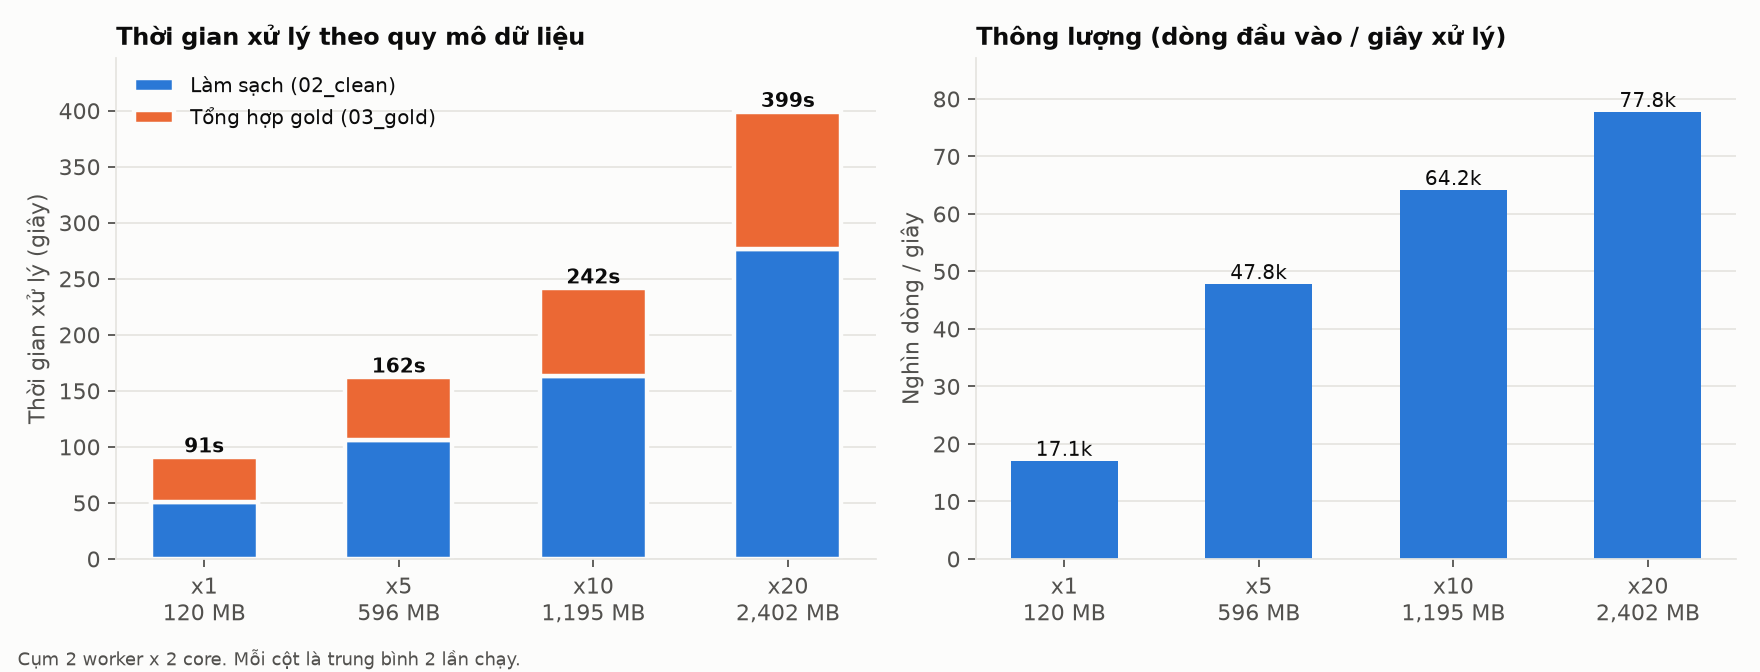
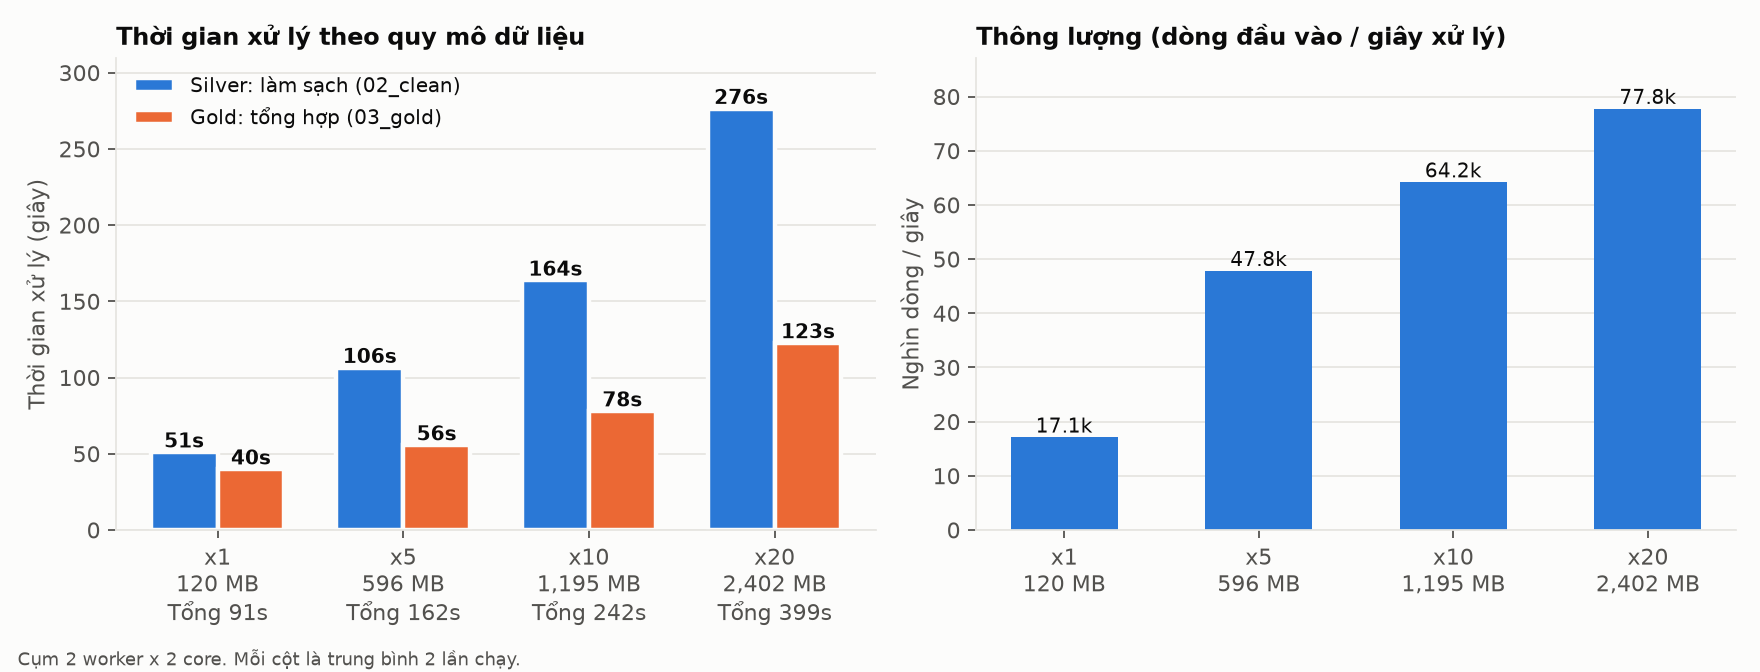
Tách thời gian tầng silver và gold trong kết quả thực nghiệm
- Bảng E1/E2 trong docs/05: cột Silver (02_clean), Gold (03_gold), Tổng, mức tăng và speedup từng tầng
- Thêm bảng thời gian kiểm tra/đối chiếu và thời gian toàn bộ lệnh
- Biểu đồ đổi từ cột chồng sang cột cạnh nhau, ghi số giây từng tầng
- Đổi tên cột trong results.md cho thống nhất

diff --git a/experiments/plot_results.py b/experiments/plot_results.py
@@ -22,7 +22,7 @@ SURFACE = "#fcfcfb"
 TEXT = "#0b0b0b"
 TEXT_2 = "#52514e"
 GRID = "#e6e5e1"
-CLEAN = "#2a78d6"   # series 1 - làm sạch
+SILVER = "#2a78d6"  # series 1 - tầng silver (làm sạch)
 GOLD = "#eb6834"    # series 2 - tổng hợp gold
 IDEAL = "#9a9893"   # đường tham chiếu (lý tưởng)
 
@@ -47,19 +47,26 @@ def load():
     return rows
 
 
-def stacked_time(ax, labels, clean, gold, title, legend_loc="upper left"):
-    """Cột chồng: thời gian làm sạch + gold, ghi tổng trên đầu cột."""
-    x = range(len(labels))
-    # Viền màu nền 2px tạo khe hở giữa 2 đoạn cột
-    ax.bar(x, clean, width=0.55, color=CLEAN, edgecolor=SURFACE, linewidth=2,
-           label="Làm sạch (02_clean)")
-    ax.bar(x, gold, width=0.55, bottom=clean, color=GOLD, edgecolor=SURFACE, linewidth=2,
-           label="Tổng hợp gold (03_gold)")
-    for i, (c, g) in enumerate(zip(clean, gold)):
-        ax.text(i, c + g, "{:.0f}s".format(c + g), ha="center", va="bottom",
+def grouped_time(ax, labels, silver, gold, title, legend_loc="upper left"):
+    """
+    Cột đặt cạnh nhau: thời gian tầng silver (02_clean) và tầng gold (03_gold) cho
+    từng cấu hình, mỗi cột ghi số giây riêng. Tổng được ghi dưới nhãn trục x.
+    """
+    w = 0.36
+    xs = list(range(len(labels)))
+    # Viền màu nền 2px tạo khe hở giữa 2 cột cạnh nhau
+    ax.bar([x - w / 2 for x in xs], silver, width=w, color=SILVER, edgecolor=SURFACE,
+           linewidth=2, label="Silver: làm sạch (02_clean)")
+    ax.bar([x + w / 2 for x in xs], gold, width=w, color=GOLD, edgecolor=SURFACE,
+           linewidth=2, label="Gold: tổng hợp (03_gold)")
+    for x, sv, g in zip(xs, silver, gold):
+        ax.text(x - w / 2, sv, "{:.0f}s".format(sv), ha="center", va="bottom",
                 color=TEXT, fontsize=9, fontweight="bold")
-    ax.set_xticks(list(x))
-    ax.set_xticklabels(labels)
+        ax.text(x + w / 2, g, "{:.0f}s".format(g), ha="center", va="bottom",
+                color=TEXT, fontsize=9, fontweight="bold")
+    ax.set_xticks(xs)
+    ax.set_xticklabels(["{}\nTổng {:.0f}s".format(lb, sv + g)
+                        for lb, sv, g in zip(labels, silver, gold)])
     ax.set_ylabel("Thời gian xử lý (giây)")
     ax.set_title(title)
     # Đặt chú thích ở góc trống (không đè lên cột cao nhất)
@@ -74,13 +81,13 @@ def plot_e1(rows):
         return None
     labels = ["x{}\n{:,.0f} MB".format(s["scale"], s["raw_mb"]) for s in e1]
     fig, (a1, a2) = plt.subplots(1, 2, figsize=(11, 4.2))
-    stacked_time(a1, labels, [s["clean_s"] for s in e1], [s["gold_build_s"] for s in e1],
+    grouped_time(a1, labels, [s["clean_s"] for s in e1], [s["gold_build_s"] for s in e1],
                  "Thời gian xử lý theo quy mô dữ liệu")
 
     # Thông lượng: số dòng xử lý mỗi giây (1 series -> không cần chú thích)
     x = range(len(e1))
     thr = [s["rows_per_s"] / 1000 for s in e1]
-    a2.bar(x, thr, width=0.55, color=CLEAN)
+    a2.bar(x, thr, width=0.55, color=SILVER)
     for i, v in enumerate(thr):
         a2.text(i, v, "{:.1f}k".format(v), ha="center", va="bottom", color=TEXT, fontsize=9)
     a2.set_xticks(list(x))
@@ -104,7 +111,7 @@ def plot_e2(rows):
     if len(e2) < 2:
         return None
     fig, (a1, a2) = plt.subplots(1, 2, figsize=(11, 4.2))
-    stacked_time(a1, [s["cores_config"].replace(" (", "\n(") for s in e2],
+    grouped_time(a1, [s["cores_config"].replace(" (", "\n(") for s in e2],
                  [s["clean_s"] for s in e2], [s["gold_build_s"] for s in e2],
                  "Thời gian xử lý theo số core (dữ liệu x{})".format(E2_FACTOR),
                  legend_loc="upper right")
@@ -113,7 +120,7 @@ def plot_e2(rows):
     base = e2[0]["processing_s"] * e2[0]["total_cores"]
     speedup = [base / s["processing_s"] for s in e2]
     a2.plot(cores, cores, color=IDEAL, linewidth=1.5, linestyle="--", label="Lý tưởng (tuyến tính)")
-    a2.plot(cores, speedup, color=CLEAN, linewidth=2, marker="o", markersize=8,
+    a2.plot(cores, speedup, color=SILVER, linewidth=2, marker="o", markersize=8,
             markeredgecolor=SURFACE, markeredgewidth=2, label="Thực tế")
     for c, s in zip(cores, speedup):
         a2.annotate("{:.2f}x".format(s), (c, s), textcoords="offset points", xytext=(0, -16),

diff --git a/experiments/run_experiments.py b/experiments/run_experiments.py
@@ -234,14 +234,14 @@ def write_report():
     L = ["# Kết quả thực nghiệm - pipeline Processing (02_clean + 03_gold)\n",
          "> Sinh tự động bởi `experiments/run_experiments.py` từ `results.csv` "
          "({} lần chạy). Giải thích: `docs/05-thuc-nghiem.md`.\n".format(len(rows)),
-         "*Thời gian xử lý* = làm sạch + tạo gold, **không** gồm khởi động Spark và các bước "
+         "*Tổng xử lý* = silver (02_clean) + gold (03_gold), **không** gồm khởi động Spark và các bước "
          "kiểm tra lại / đối chiếu. Mỗi cấu hình chạy nhiều lần, bảng ghi giá trị trung bình.\n"]
 
     if e1:
         base = e1[0]
         L.append("## E1 - Quy mô dữ liệu (4 core, 2 worker)\n")
-        L.append("| Quy mô | CSV vào (MB) | Số dòng vào | Làm sạch (s) | Gold (s) | "
-                 "Xử lý (s) | Min-max (s) | Dữ liệu tăng | Thời gian tăng | Dòng/giây | MB/giây | "
+        L.append("| Quy mô | CSV vào (MB) | Số dòng vào | Silver: 02_clean (s) | Gold: 03_gold (s) | "
+                 "Tổng xử lý (s) | Min-max (s) | Dữ liệu tăng | Thời gian tăng | Dòng/giây | MB/giây | "
                  "Broadcast join | Sort-merge join | Đối chiếu | Doanh thu hợp lệ |")
         L.append("|---|---:|---:|---:|---:|---:|---:|---:|---:|---:|---:|---:|---:|---|---:|")
         for s in e1:
@@ -256,7 +256,7 @@ def write_report():
     if e2:
         one = e2[0]
         L.append("\n## E2 - Số core / worker (dữ liệu x{})\n".format(E2_FACTOR))
-        L.append("| Cấu hình | Số lần chạy | Làm sạch (s) | Gold (s) | Xử lý (s) | Min-max (s) | "
+        L.append("| Cấu hình | Số lần chạy | Silver: 02_clean (s) | Gold: 03_gold (s) | Tổng xử lý (s) | Min-max (s) | "
                  "Speedup so với 1 core | Hiệu suất (speedup / số core) | Dòng/giây |")
         L.append("|---|---:|---:|---:|---:|---:|---:|---:|---:|")
         for s in e2:

diff --git a/docs/05-thuc-nghiem.md b/docs/05-thuc-nghiem.md
@@ -61,8 +61,15 @@ Giới hạn số core bằng tham số của `spark-submit`, không phải tắ
 | 2 core (1 worker) | `--total-executor-cores 2 --executor-cores 2` | 1 executor chiếm trọn 1 worker |
 | 4 core (2 worker) | `--total-executor-cores 4 --executor-cores 2` | Cụm đầy đủ |
 
-**Thời gian xử lý** = thời gian làm sạch (bước 4) + thời gian tạo gold (bước 5). Con số này
-**không** gồm khởi động Spark và các bước kiểm tra lại / đối chiếu số liệu.
+Mỗi lần chạy đo **riêng từng tầng**:
+
+| Đại lượng | Đo cái gì |
+|---|---|
+| **Silver** | Job `02_clean.py`: đọc CSV, làm sạch, ghi 8 bảng Parquet silver |
+| **Gold** | Job `03_gold.py`: đọc silver, join, tổng hợp, ghi 7 bảng gold |
+| **Tổng xử lý** | Silver + Gold |
+| **Kiểm tra** | Đọc lại silver để kiểm tra khoá chính, và chạy 11 kiểm tra đối chiếu của gold. **Không** tính vào tổng xử lý; ghi riêng ở mục 3.1. |
+| **Toàn bộ lệnh** | Thời gian từ lúc gõ `spark-submit` tới lúc kết thúc, gồm cả khởi động Spark, kiểm tra và ghi báo cáo (mục 3.1) |
 
 ### 2.4. Môi trường đo
 
@@ -75,14 +82,42 @@ Docker trên cùng máy này.
 
 ![Kết quả E1](../reports/experiments/fig_e1_scale.png)
 
-| Quy mô | CSV vào | Thời gian xử lý | Dữ liệu tăng | Thời gian tăng | Thông lượng | Join sort-merge / tổng | Đối chiếu | Doanh thu hợp lệ |
-|---|---:|---:|---:|---:|---:|---:|---|---:|
-| x1 | 120 MB | **90,8 s** | 1x | 1,0x | 17,1 nghìn dòng/s | 0 / 10 | 11/11 | 13.494.400,74 |
-| x5 | 596 MB | **162,1 s** | 5x | 1,8x | 47,8 nghìn dòng/s | 5 / 10 | 11/11 | 67.472.003,70 |
-| x10 | 1,2 GB | **241,6 s** | 10x | 2,7x | 64,2 nghìn dòng/s | 8 / 10 | 11/11 | 134.944.007,40 |
-| x20 | 2,4 GB | **399,0 s** | 20x | 4,4x | 77,8 nghìn dòng/s | 8 / 10 | 11/11 | 269.888.014,80 |
+**Thời gian từng tầng** (giây, trung bình 2 lần chạy):
+
+| Quy mô | CSV vào | Silver (02_clean) | Gold (03_gold) | **Tổng xử lý** | Silver tăng so với x1 | Gold tăng so với x1 | Tổng tăng so với x1 |
+|---|---:|---:|---:|---:|---:|---:|---:|
+| x1 | 120 MB | 51,0 | 39,8 | **90,8** | 1,0x | 1,0x | 1,0x |
+| x5 | 596 MB | 106,4 | 55,7 | **162,1** | 2,1x | 1,4x | 1,8x |
+| x10 | 1,2 GB | 163,7 | 77,9 | **241,6** | 3,2x | 2,0x | 2,7x |
+| x20 | 2,4 GB | 276,4 | 122,7 | **399,0** | 5,4x | 3,1x | 4,4x |
+
+**Thông lượng, cách join và độ đúng:**
+
+| Quy mô | Dữ liệu tăng | Thông lượng | Join sort-merge / tổng | Đối chiếu | Doanh thu hợp lệ |
+|---|---:|---:|---:|---|---:|
+| x1 | 1x | 17,1 nghìn dòng/s | 0 / 10 | 11/11 | 13.494.400,74 |
+| x5 | 5x | 47,8 nghìn dòng/s | 5 / 10 | 11/11 | 67.472.003,70 |
+| x10 | 10x | 64,2 nghìn dòng/s | 8 / 10 | 11/11 | 134.944.007,40 |
+| x20 | 20x | 77,8 nghìn dòng/s | 8 / 10 | 11/11 | 269.888.014,80 |
 
 Mỗi cấu hình chạy 2 lần; 2 lần chênh nhau tối đa khoảng 7% (ở x1, nơi thời gian ngắn nên dao động lớn hơn), các quy mô khác dưới 5%.
+
+### 3.1. Thời gian kiểm tra và thời gian toàn bộ lệnh
+
+Để minh bạch, đây là các phần **không** tính vào "Tổng xử lý" ở trên (giây, trung bình):
+
+| Quy mô | Kiểm tra silver (đọc lại, khoá chính) | Đối chiếu gold (11 kiểm tra) | Toàn bộ lệnh `02_clean.py` | Toàn bộ lệnh `03_gold.py` |
+|---|---:|---:|---:|---:|
+| x1 | 10,6 | 7,7 | 83,9 | 72,9 |
+| x5 | 13,3 | 8,0 | 148,6 | 90,6 |
+| x10 | 14,9 | 8,4 | 213,5 | 115,7 |
+| x20 | 20,0 | 11,0 | 340,4 | 167,4 |
+
+"Toàn bộ lệnh" lớn hơn "xử lý + kiểm tra" khoảng 20-45 s mỗi job. Phần chênh gồm:
+- khởi động JVM, chờ worker cấp executor;
+- đếm lại số dòng đầu vào để ghi báo cáo (ở x20 phải quét lại 2,4 GB CSV, nên phần chênh của
+  `02_clean.py` lên tới khoảng 44 s);
+- ghi file báo cáo.
 
 ### Nhận xét
 
@@ -121,8 +156,17 @@ càng được "chia đều", và cụm được dùng hiệu quả hơn.
 Spark chọn cách join **cho từng bảng** dựa trên kích thước, không cần sửa code. Đây là lợi thế
 của việc viết logic bằng SQL/DataFrame và để bộ tối ưu (Catalyst + AQE) quyết định cách chạy.
 
-**5. Điểm nghẽn là bảng `geolocation`.** Ở x20, riêng việc làm sạch bảng này mất khoảng 167 s
-trên 271 s của bước làm sạch (61%), vì phải loại trùng 20 triệu dòng toạ độ.
+**5. Tầng silver tăng nhanh hơn tầng gold.** Từ x1 lên x20, silver tăng 5,4x (51 → 276 s)
+trong khi gold chỉ tăng 3,1x (40 → 123 s). Silver chiếm 56% thời gian ở x1 và 69% ở x20.
+Lý do:
+- Silver phải xử lý **dữ liệu thô**: đọc và parse CSV (chậm hơn Parquet nhiều), loại trùng,
+  ghi lại toàn bộ.
+- Gold đọc **Parquet đã sạch và nhỏ hơn**. Riêng bảng geolocation đã được gộp từ hàng triệu
+  dòng xuống khoảng 19 nghìn dòng ở silver, nên gold không phải gánh phần này.
+
+**6. Điểm nghẽn của silver là bảng `geolocation`.** Ở x20, riêng việc làm sạch bảng này mất
+khoảng 167 s trên 271 s của tầng silver (61%), vì phải loại trùng 20 triệu dòng toạ độ. Muốn
+pipeline nhanh hơn, đây là chỗ cần tối ưu đầu tiên.
 
 ---
 
@@ -130,11 +174,20 @@ trên 271 s của bước làm sạch (61%), vì phải loại trùng 20 triệu
 
 ![Kết quả E2](../reports/experiments/fig_e2_cores.png)
 
-| Cấu hình | Thời gian xử lý | Speedup | Hiệu suất (speedup / số core) |
-|---|---:|---:|---:|
-| 1 core | 276,6 s | 1,00x | 100% |
-| 2 core (1 worker) | 199,3 s | 1,39x | 69% |
-| 4 core (2 worker) | 162,1 s | 1,71x | 43% |
+**Thời gian từng tầng** (giây, trung bình 2 lần chạy):
+
+| Cấu hình | Silver (02_clean) | Gold (03_gold) | **Tổng xử lý** | Speedup silver | Speedup gold | **Speedup tổng** | Hiệu suất (speedup tổng / số core) |
+|---|---:|---:|---:|---:|---:|---:|---:|
+| 1 core | 175,9 | 100,7 | **276,6** | 1,00x | 1,00x | **1,00x** | 100% |
+| 2 core (1 worker) | 132,9 | 66,4 | **199,3** | 1,32x | 1,52x | **1,39x** | 69% |
+| 4 core (2 worker) | 106,4 | 55,7 | **162,1** | 1,65x | 1,81x | **1,71x** | 43% |
+
+Tầng gold tăng tốc tốt hơn silver khi thêm core (1,81x so với 1,65x). Cách giải thích hợp lý
+(nhóm **chưa đo riêng** từng nguyên nhân):
+- gold chủ yếu là join/group by trên Parquet, chia nhỏ tốt;
+- silver có nhiều job nhỏ chạy nối tiếp (đếm số dòng trước/sau từng thao tác để ghi báo cáo),
+  và các bảng nhỏ (`sellers`, bảng dịch danh mục) chỉ có rất ít partition nên không tận dụng
+  được thêm core.
 
 ### Nhận xét
 

diff --git a/reports/experiments/results.md b/reports/experiments/results.md
@@ -2,11 +2,11 @@
 
 > Sinh tự động bởi `experiments/run_experiments.py` từ `results.csv` (12 lần chạy). Giải thích: `docs/05-thuc-nghiem.md`.
 
-*Thời gian xử lý* = làm sạch + tạo gold, **không** gồm khởi động Spark và các bước kiểm tra lại / đối chiếu. Mỗi cấu hình chạy nhiều lần, bảng ghi giá trị trung bình.
+*Tổng xử lý* = silver (02_clean) + gold (03_gold), **không** gồm khởi động Spark và các bước kiểm tra lại / đối chiếu. Mỗi cấu hình chạy nhiều lần, bảng ghi giá trị trung bình.
 
 ## E1 - Quy mô dữ liệu (4 core, 2 worker)
 
-| Quy mô | CSV vào (MB) | Số dòng vào | Làm sạch (s) | Gold (s) | Xử lý (s) | Min-max (s) | Dữ liệu tăng | Thời gian tăng | Dòng/giây | MB/giây | Broadcast join | Sort-merge join | Đối chiếu | Doanh thu hợp lệ |
+| Quy mô | CSV vào (MB) | Số dòng vào | Silver: 02_clean (s) | Gold: 03_gold (s) | Tổng xử lý (s) | Min-max (s) | Dữ liệu tăng | Thời gian tăng | Dòng/giây | MB/giây | Broadcast join | Sort-merge join | Đối chiếu | Doanh thu hợp lệ |
 |---|---:|---:|---:|---:|---:|---:|---:|---:|---:|---:|---:|---:|---|---:|
 | x1 | 120 | 1,550,922 | 51.0 | 39.8 | **90.8** | 88-94 | 1.0x | 1.0x | 17,095 | 1.33 | 10 | 0 | 11/11 | 13494400.74 |
 | x5 | 596 | 7,754,326 | 106.4 | 55.7 | **162.1** | 162-162 | 5.0x | 1.8x | 47,838 | 3.68 | 5 | 5 | 11/11 | 67472003.70 |
@@ -15,7 +15,7 @@
 
 ## E2 - Số core / worker (dữ liệu x5)
 
-| Cấu hình | Số lần chạy | Làm sạch (s) | Gold (s) | Xử lý (s) | Min-max (s) | Speedup so với 1 core | Hiệu suất (speedup / số core) | Dòng/giây |
+| Cấu hình | Số lần chạy | Silver: 02_clean (s) | Gold: 03_gold (s) | Tổng xử lý (s) | Min-max (s) | Speedup so với 1 core | Hiệu suất (speedup / số core) | Dòng/giây |
 |---|---:|---:|---:|---:|---:|---:|---:|---:|
 | 1 core | 2 | 175.9 | 100.7 | **276.6** | 274-279 | 1.00x | 100% | 28,040 |
 | 2 core (1 worker) | 2 | 132.9 | 66.4 | **199.3** | 198-201 | 1.39x | 69% | 38,909 |
